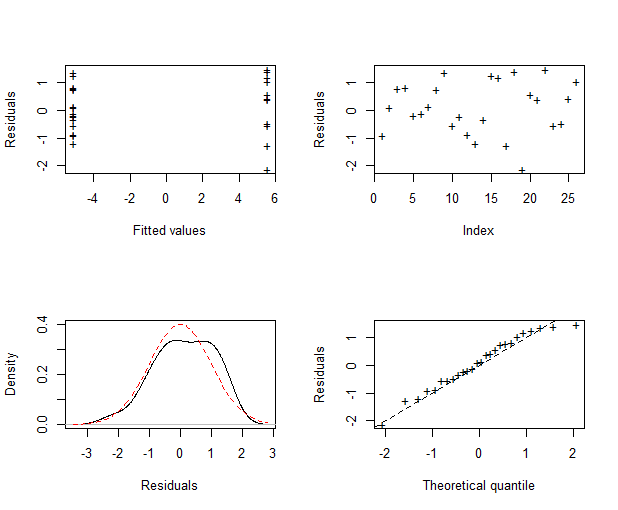
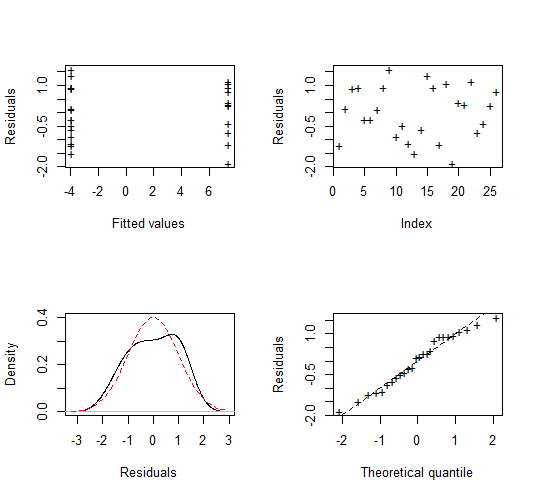
Updated readme.md file

diff --git a/README.md b/README.md
@@ -108,3 +108,13 @@ envel_sdl(fit)
 
 ![alt text](figures/fig3a.png)
 ![alt text](figures/fig3b.png)
+
+Currently, the methods implemented for "sdlrm" objects are
+``` r
+methods(class = "sdlrm")
+#>
+#> [1] AIC          BIC          coef         logLik      
+#> [5] model.matrix plot         print        summary     
+#> [9] vcov        
+#> see '?methods' for accessing help and source code
+```
